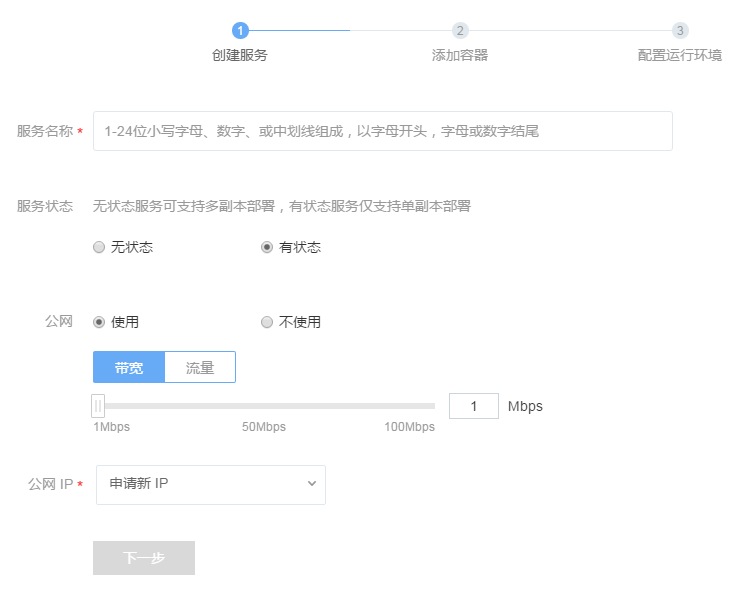
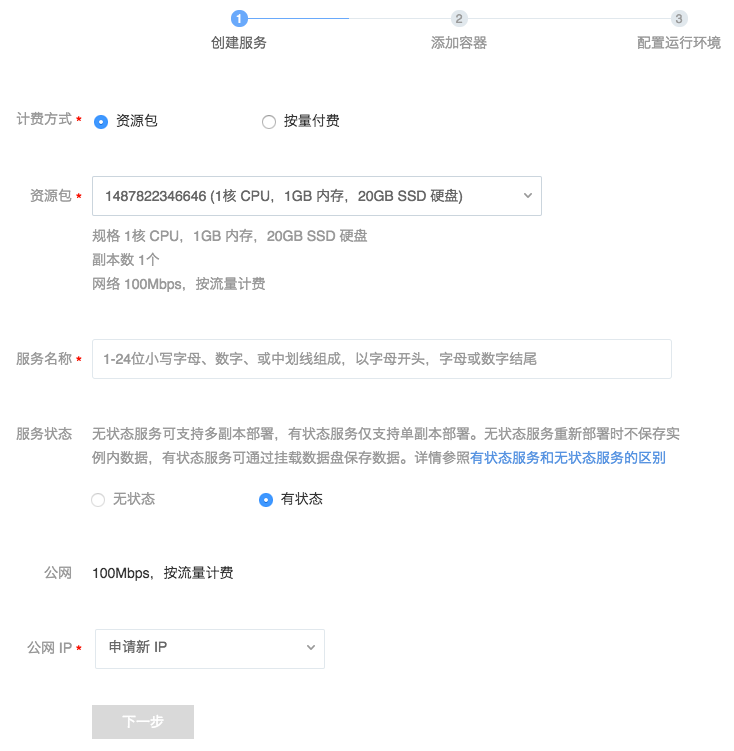
Enhanment:创建服务添加资源包相关信息

diff --git a/容器服务/服务管理/使用指南/创建无状态服务.md b/容器服务/服务管理/使用指南/创建无状态服务.md
@@ -6,7 +6,6 @@
 
 「空间」对应 Kubernetes 的 [Namespace](http://kubernetes.io/docs/user-guide/namespaces/)，使用空间可以将服务资源进行逻辑隔离，划分成不同的虚拟集群。例如，用户如果需要创建测试、联调、线上环境，可以通过空间来对这些环境进行隔离。
 
-
 ## 创建服务
 
 点击服务列表左上角的「创建服务」按钮可进入创建服务页面。
@@ -25,6 +24,10 @@
 
 ### 1. 创建服务
 ![](../image/创建服务-创建无状态服务-创建服务.png)
+
+#### 计费方式
+* 请慎重选择计费方式，费用情况详见：[价格与计费](http://support.c.163.com/md.html#!容器服务/服务管理/服务管理价格与计费.md)
+* 资源包说明，详见：[如何购买服务资源包](http://support.c.163.com/md.html#!容器服务/服务管理/常见问题/资源包常见问题/如何购买服务资源包.md)
 
 #### 服务名称
 填写服务名称，由 1~24 位小写字母、数字或中划线组成，以字母开头，字母或数字结尾。
@@ -77,6 +80,8 @@
 点击下一步，进入配置运行环境界面，如下图所示：
 
 ![](../image/创建服务-创建无状态服务-配置运行环境.png)
+
+<span>Note:</span><div class="alertContent">计费方式为资源包时，规格和副本数已在资源包内定义</div>
 
 #### 规格
 你可以选择合适自己项目的规格。

diff --git a/容器服务/服务管理/使用指南/创建有状态服务.md b/容器服务/服务管理/使用指南/创建有状态服务.md
@@ -26,6 +26,11 @@
 
 ![](../image/创建服务-创建有状态服务-创建服务.png)
 
+#### 计费方式
+<span>Note:</span><div class="alertContent">计费方式为资源包时，公网带宽和计费模式已在资源包内定义</div>
+* 请慎重选择计费方式，费用情况详见：[价格与计费](http://support.c.163.com/md.html#!容器服务/服务管理/服务管理价格与计费.md)
+* 资源包说明，详见：[如何购买服务资源包](http://support.c.163.com/md.html#!容器服务/服务管理/常见问题/资源包常见问题/如何购买服务资源包.md)
+
 #### 服务名称
 填写服务名称，由 1~24 位小写字母、数字或中划线组成，以字母开头，字母或数字结尾。
 
@@ -95,7 +100,9 @@
 ### 3. 配置运行环境
 点击下一步，进入配置运行环境界面，如下图所示：
 
-![](../image/创建服务-创建有状态服务-配置运行环境.png)
+![](../image/创建服务-创建无状态服务-配置运行环境.png)
+
+<span>Note:</span><div class="alertContent">计费方式为资源包时，规格和副本数已在资源包内定义</div>
 
 #### 规格
 你可以选择合适自己项目的规格。
